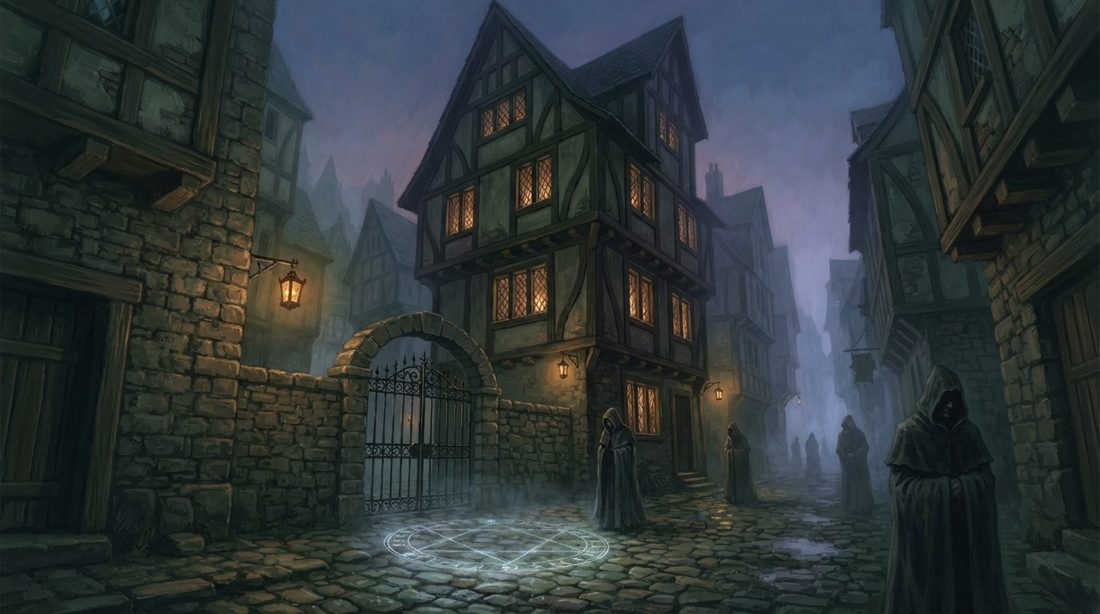
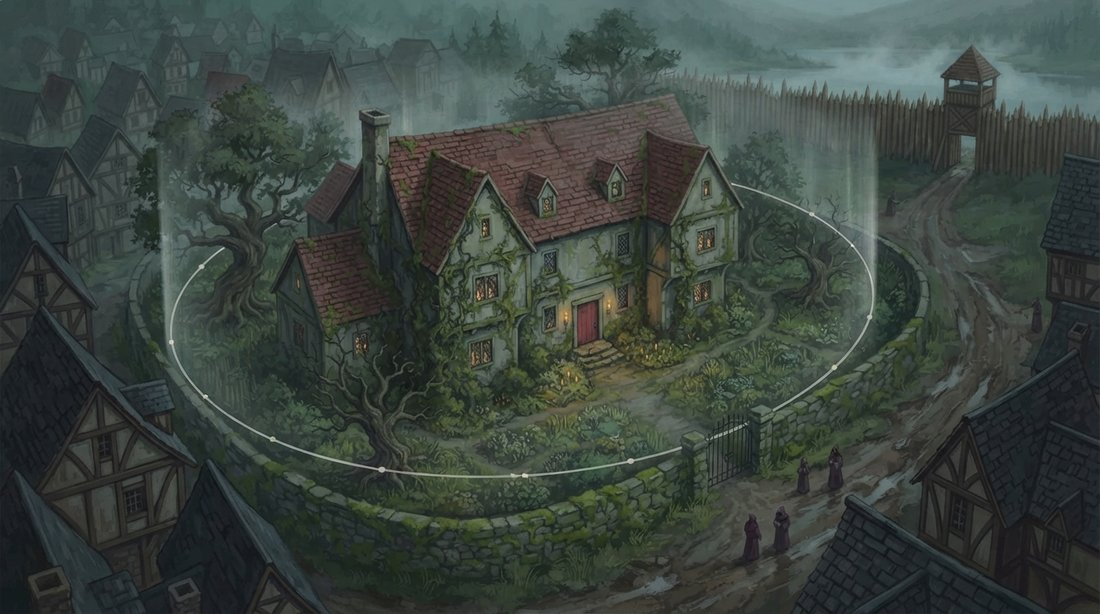
Wachterhaus picture: the binding circle rings the whole estate
Chris (2026-11-02): the old picture put the circle on the street beside the
house. The posts say the manor is ringed by a binding circle and has grounds;
the new picture shows the manor in its walled garden with the ring around
house and garden, near the town palisade. Prompt reviewed against the posts,
painted with Flash Lite, independent look check passed after one repaint.

Claude-Session: https://claude.ai/code/session_01U8i5qXVoab9oiV9u3H6N1Y

diff --git a/tests/test_wiki.py b/tests/test_wiki.py
@@ -503,3 +503,13 @@ def test_hall_of_bones_picture_shows_the_skull_doors_and_bone_table():
     alt = re.search(r"!\[([^\]]*)\]\(/images/hall-of-bones-ai\.jpg\)", text).group(1).lower()
     for words in ("skull", "double doors", "table", "chairs"):
         assert words in alt, words
+
+
+def test_wachterhaus_picture_rings_the_whole_estate():
+    # Chris, 2026-11-02: the old picture put the binding circle on the street beside the house. The
+    # posts say the manor is "ringed by a binding circle" and has grounds Stella was walked around.
+    text = (build.ROOT / "content" / "wiki" / "wachterhaus.md").read_text(encoding="utf-8")
+    alt = re.search(r"!\[([^\]]*)\]\(/images/wachterhaus-ai\.jpg\)", text).group(1).lower()
+    for words in ("grounds", "circle", "around the house", "garden"):
+        assert words in alt, words
+    assert "cobbles" not in alt

diff --git a/content/wiki/wachterhaus.md b/content/wiki/wachterhaus.md
@@ -9,7 +9,7 @@ source: Compiled from the adventure log
 
 ## Description
 
-![Wachterhaus at dusk, a glowing circle of runes on the cobbles around it](/images/wachterhaus-ai.jpg)
+![Wachterhaus at dusk in its walled garden grounds near the town palisade, a faint silver binding circle on the ground all the way around the house and garden](/images/wachterhaus-ai.jpg)
 
 *AI-generated image (Google Gemini, November 2026), drawn from this page and the session logs. Not official art.*
 
